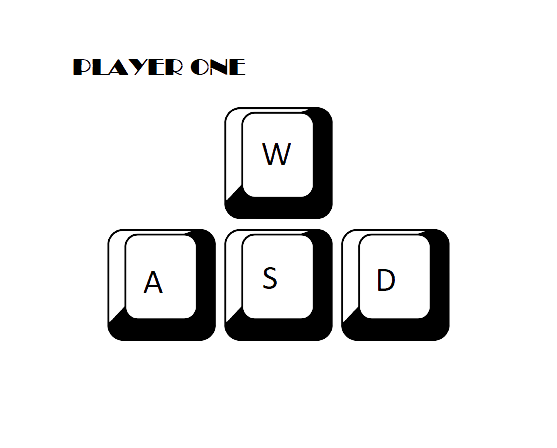
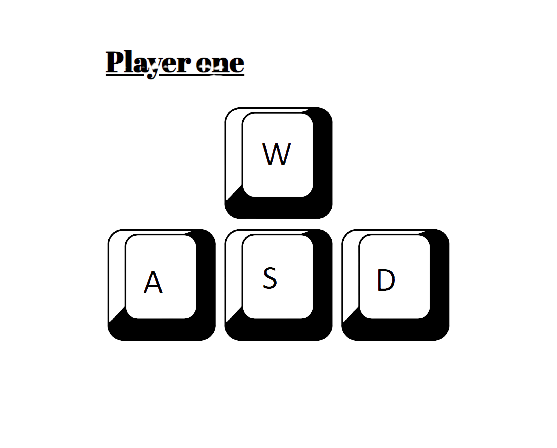
new arrowkey.png WASDkeys.png

diff --git a/Styles/Style.CSS b/Styles/Style.CSS
@@ -20,6 +20,7 @@
 body {
     margin: 0;
     text-align: center;
+    font-family: 'Abril Fatface';
  
 }
 .logo {
@@ -71,10 +72,11 @@ body {
     background-color: rgba(94, 46, 238, 0.95);
     color: rgba(255, 255, 255, 1);
     text-decoration: none;
-   font-size: 30px;
+    font-size: 25px;
     border-radius: 60px;
     transition: background-color 1s ;
     margin-top: 15px;
+    
     
 }
 
@@ -126,7 +128,7 @@ body {
 }
 .rules{
     width: 20%;
-    font-size: 1.5em;
+    font-size: 1.2em;
     display: flex;
     align-items: center;
 
@@ -146,6 +148,7 @@ body {
 
     text-decoration: underline;
     font-size: 1.5em;
+    margin-bottom: 25px;
 }
 .start{
     display: flex;
